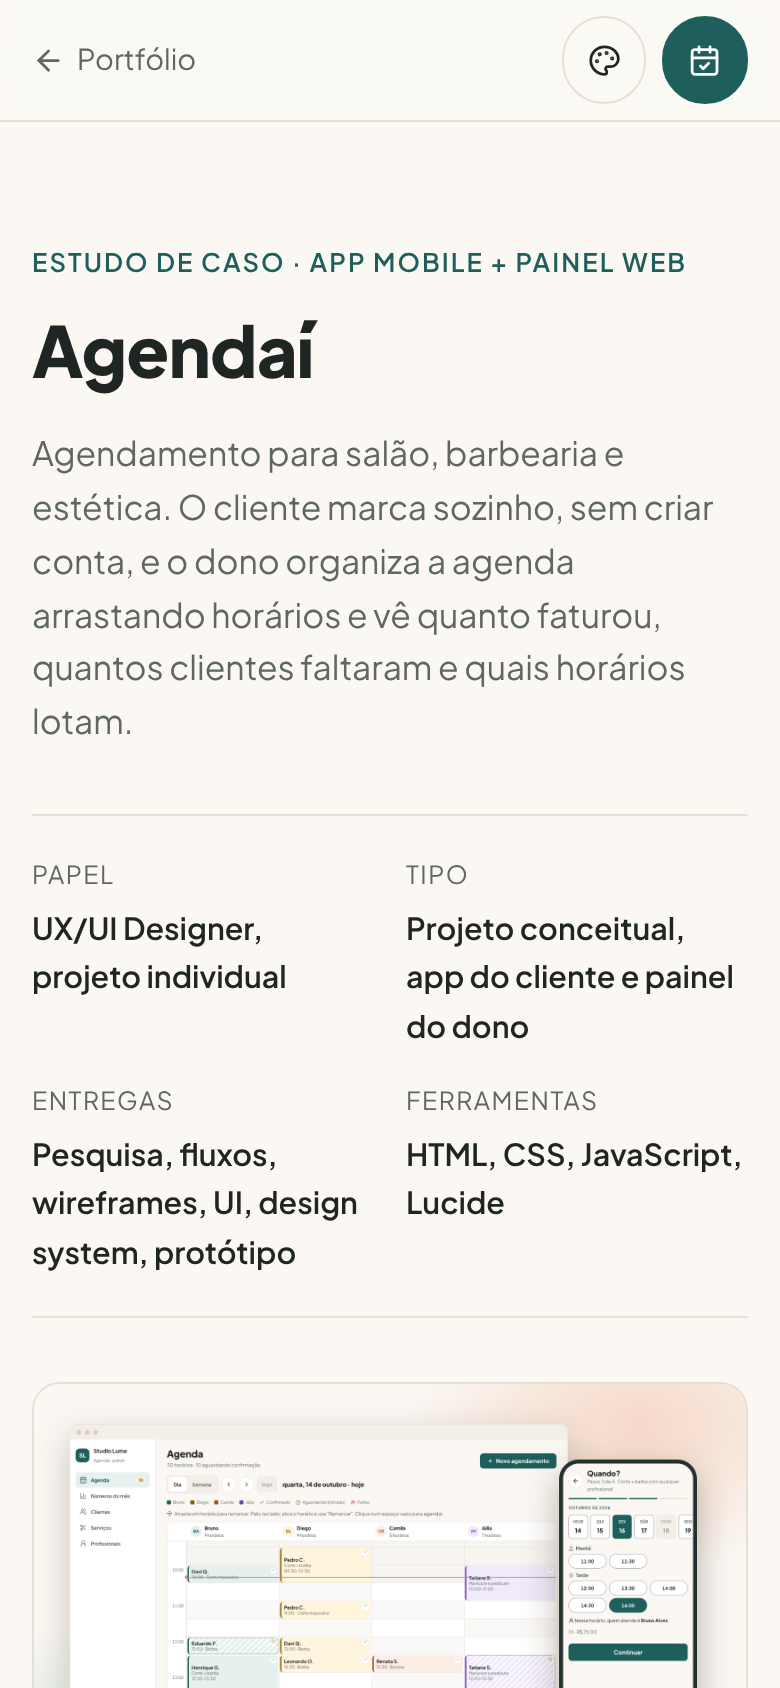
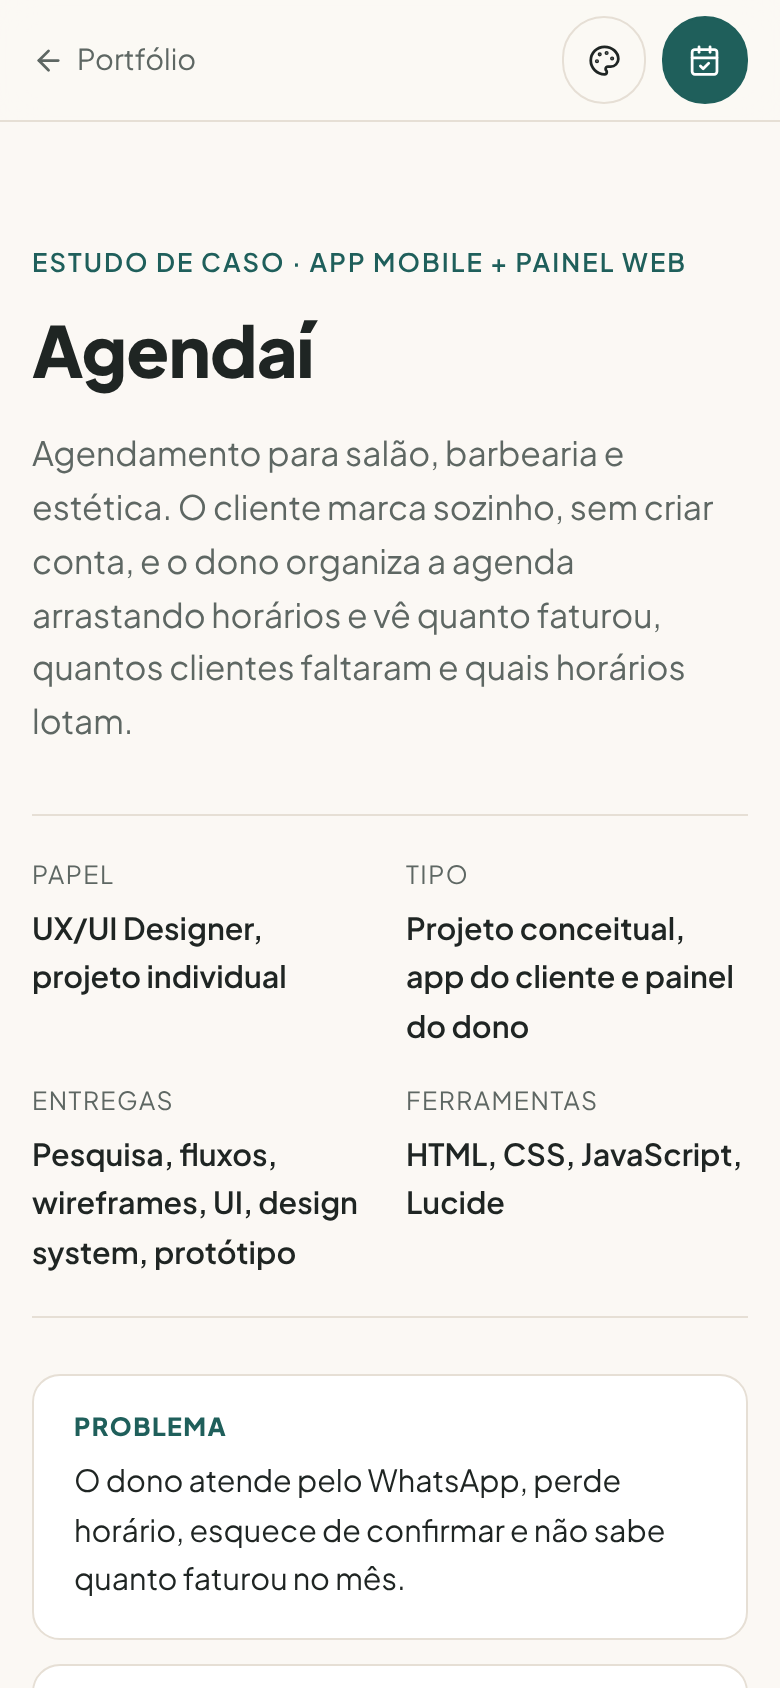
Adiciono resumo, métricas de sucesso e aprendizados aos dois cases

Changed region(s): [[0.0615, 0.8009, 0.9538, 1.0]]

diff --git a/roxx-energy/index.html b/roxx-energy/index.html
@@ -88,6 +88,11 @@
             <div><dt>Entregas</dt><dd>Pesquisa, fluxos, wireframes, UI, design system, protótipo</dd></div>
             <div><dt>Ferramentas</dt><dd>HTML, CSS, JavaScript, Lucide</dd></div>
           </dl>
+          <section class="case-summary" aria-label="Resumo do case">
+            <div><h2>Problema</h2><p>O motorista sai de casa sem saber se o carregador vai estar livre, funcionando e compatível com o carro.</p></div>
+            <div><h2>Solução</h2><p>Mapa já filtrado pelo carro, status com a hora da atualização e relatos de outros motoristas, reserva com 15 minutos de tolerância (AC e DC), recarga acompanhada ao vivo e pagamento com Pix ou cartão.</p></div>
+            <div><h2>Resultado</h2><p>Protótipo navegável com 11 telas e os estados de erro, design system com 8 componentes, benchmark de 5 produtos e avaliação heurística com 8 problemas encontrados e 6 corrigidos.</p></div>
+          </section>
           <figure class="case-cover">
             <img
               src="../assets/img/capa-roxx-energy.png"
@@ -113,7 +118,7 @@
               <li><a href="#acessibilidade">Acessibilidade</a></li>
               <li><a href="#heuristica">Avaliação heurística</a></li>
               <li><a href="#teste">Roteiro de teste</a></li>
-              <li><a href="#proximos">Próximos passos</a></li>
+              <li><a href="#proximos">Próximos passos e métricas</a></li>
             </ol>
           </details>
         </nav>
@@ -315,6 +320,7 @@
               <article class="card"><h4>Pin com potência</h4><p>Mostra os kW, que é o que o motorista compara primeiro. A cor diz o status e o rótulo acessível diz tudo por extenso.</p></article>
               <article class="card"><h4>Status nunca só por cor</h4><p>Badge com cor, bolinha e texto, mais "atualizado há X min".</p></article>
               <article class="card"><h4>Ação no rodapé</h4><p>Em estação, reserva e pagamento, o botão principal fica fixo ao alcance do polegar.</p></article>
+              <article class="card"><h4>Relatos de motoristas</h4><p>"Reportar problema" abre um formulário curto (conector e o que aconteceu). O relato aparece na estação para os próximos motoristas e vai para o operador.</p></article>
               <article class="card"><h4>Modal só com dinheiro envolvido</h4><p>Encerrar recarga e cancelar reserva. O foco começa no botão seguro.</p></article>
             </div>
             <p>Todos os tokens e componentes, com todos os estados, estão no <a href="design-system/index.html">design system</a>.</p>
@@ -329,11 +335,13 @@
               <figure><img src="docs/prints/mobile-10-historico.png" width="390" height="844" loading="lazy" alt="Histórico com o gasto de outubro e gráfico de seis meses." /><figcaption>Histórico</figcaption></figure>
             </div>
             <details class="more-prints">
-              <summary>Ver as outras telas (onboarding, cadastro, reserva confirmada, recibo)</summary>
+              <summary>Ver as outras telas (onboarding, cadastro, relatos, reserva confirmada, recibo)</summary>
               <div class="gallery">
                 <figure><img src="docs/prints/mobile-01-onboarding.png" width="390" height="844" loading="lazy" alt="Primeiro passo do onboarding: saiba antes de sair de casa." /><figcaption>Onboarding</figcaption></figure>
                 <figure><img src="docs/prints/mobile-02-cadastro.png" width="390" height="844" loading="lazy" alt="Cadastro do carro com modelo, conectores e apelido." /><figcaption>Cadastro do carro</figcaption></figure>
                 <figure><img src="docs/prints/mobile-02b-cadastro-erro.png" width="390" height="844" loading="lazy" alt="Cadastro do carro mostrando o erro de modelo não escolhido." /><figcaption>Cadastro com erro</figcaption></figure>
+                <figure><img src="docs/prints/mobile-04c-relatos.png" width="390" height="844" loading="lazy" alt="Estação do Noroeste com aviso de que 3 motoristas reportaram o conector A1 sem energia." /><figcaption>Relatos na estação</figcaption></figure>
+                <figure><img src="docs/prints/mobile-04b-reportar.png" width="390" height="844" loading="lazy" alt="Formulário para reportar problema no carregador, com conector e motivo." /><figcaption>Reportar problema</figcaption></figure>
                 <figure><img src="docs/prints/mobile-06-reserva-confirmada.png" width="390" height="844" loading="lazy" alt="Reserva confirmada com horário de chegada e prazo de tolerância." /><figcaption>Reserva confirmada</figcaption></figure>
                 <figure><img src="docs/prints/mobile-07b-encerrar.png" width="390" height="844" loading="lazy" alt="Modal perguntando se quer encerrar a recarga agora." /><figcaption>Confirmação ao encerrar</figcaption></figure>
                 <figure><img src="docs/prints/mobile-09-recibo.png" width="390" height="844" loading="lazy" alt="Recibo do pagamento aprovado." /><figcaption>Recibo</figcaption></figure>
@@ -435,7 +443,7 @@
           <!-- 10 -->
           <section class="case-section" id="proximos" aria-labelledby="h-proximos">
             <span class="section-num">10</span>
-            <h2 id="h-proximos">Próximos passos</h2>
+            <h2 id="h-proximos">Próximos passos, métricas e aprendizados</h2>
             <ol>
               <li>Rodar o teste com 5 motoristas e revisar a proto-persona com o que aparecer.</li>
               <li>Favoritos e "carregar de novo" para quem usa sempre a mesma estação.</li>
@@ -444,6 +452,26 @@
               <li>Fila de espera quando todos os conectores estiverem ocupados.</li>
               <li>Testar a reserva com e sem taxa e ver o efeito nas reservas abandonadas.</li>
             </ol>
+            <h3>Como eu mediria o sucesso</h3>
+            <p>Se o Roxx fosse lançado, estes seriam os números que eu acompanharia. Nenhum deles existe ainda; são as metas que eu definiria.</p>
+            <div class="table-wrap" tabindex="0" role="region" aria-label="Métricas de sucesso">
+              <table>
+                <thead><tr><th scope="col">Métrica</th><th scope="col">Por que importa</th><th scope="col">Meta inicial</th></tr></thead>
+                <tbody>
+                  <tr><td>Tempo de abrir o app até confirmar a reserva</td><td>É o objetivo do produto</td><td>Menos de 1 minuto</td></tr>
+                  <tr><td>Chegadas em que o conector reservado estava funcionando</td><td>Mede se o status é confiável, que é a dor principal</td><td>Acima de 95%</td></tr>
+                  <tr><td>Reservas que viram recarga</td><td>Mostra se a tolerância de 15 minutos e a taxa fazem sentido</td><td>Acima de 85%</td></tr>
+                  <tr><td>Relatos de problema confirmados pelo operador</td><td>Separa relato útil de ruído e calibra o peso do relato no status</td><td>Acompanhar, sem meta no início</td></tr>
+                  <tr><td>Motoristas que voltam a carregar pelo app no mês seguinte</td><td>Indica se o app virou o lugar padrão para carregar</td><td>Acima de 60%</td></tr>
+                </tbody>
+              </table>
+            </div>
+            <h3>O que eu aprendi</h3>
+            <ul>
+              <li><strong>Testar o protótipo pega o que a tela parada esconde.</strong> Os dois problemas mais graves da avaliação heurística só apareceram usando o fluxo de verdade, e um deles era um bug de CSS que deixava as mensagens de erro sempre visíveis.</li>
+              <li><strong>O maior risco não é a interface, é o dado.</strong> Um status errado derruba a confiança no app inteiro. Por isso a hora da atualização em todo status e os relatos de motoristas na tela da estação.</li>
+              <li><strong>Restringir a cor de destaque deu clareza.</strong> Decidir que o verde só aparece em três lugares (ação principal, livre e progresso) resolveu a hierarquia de quase todas as telas.</li>
+            </ul>
             <div class="next-links">
               <a class="btn-case btn-case--primary" href="prototipo/index.html"><i data-lucide="smartphone" aria-hidden="true"></i>Abrir protótipo</a>
               <a class="btn-case" href="design-system/index.html"><i data-lucide="palette" aria-hidden="true"></i>Design system</a>

diff --git a/agendai/index.html b/agendai/index.html
@@ -89,6 +89,11 @@
             <div><dt>Entregas</dt><dd>Pesquisa, fluxos, wireframes, UI, design system, protótipo</dd></div>
             <div><dt>Ferramentas</dt><dd>HTML, CSS, JavaScript, Lucide</dd></div>
           </dl>
+          <section class="case-summary" aria-label="Resumo do case">
+            <div><h2>Problema</h2><p>O dono atende pelo WhatsApp, perde horário, esquece de confirmar e não sabe quanto faturou no mês.</p></div>
+            <div><h2>Solução</h2><p>Link de agendamento sem cadastro para o cliente e um painel em que o dono arrasta horários para remarcar e vê faturamento, faltas e horários mais cheios.</p></div>
+            <div><h2>Resultado</h2><p>Duas interfaces navegáveis com 14 telas, design system com 8 componentes, benchmark de 5 produtos e avaliação heurística com 7 problemas encontrados e 6 corrigidos.</p></div>
+          </section>
           <figure class="case-cover">
             <img
               src="../assets/img/capa-agendai.png"
@@ -114,7 +119,7 @@
               <li><a href="#acessibilidade">Acessibilidade</a></li>
               <li><a href="#heuristica">Avaliação heurística</a></li>
               <li><a href="#teste">Roteiro de teste</a></li>
-              <li><a href="#proximos">Próximos passos</a></li>
+              <li><a href="#proximos">Próximos passos e métricas</a></li>
             </ol>
           </details>
         </nav>
@@ -436,7 +441,7 @@
 
           <section class="case-section" id="proximos" aria-labelledby="h-proximos">
             <span class="section-num">10</span>
-            <h2 id="h-proximos">Próximos passos</h2>
+            <h2 id="h-proximos">Próximos passos, métricas e aprendizados</h2>
             <ol>
               <li>Rodar o teste com donos e clientes e revisar as proto-personas.</li>
               <li>"Ir para uma data" no painel.</li>
@@ -446,6 +451,26 @@
               <li>Bloqueio de agenda (folga, almoço) direto na grade.</li>
               <li>Integração real com o WhatsApp e medir se a taxa de faltas cai.</li>
             </ol>
+            <h3>Como eu mediria o sucesso</h3>
+            <p>Se o Agendaí fosse lançado, estes seriam os números que eu acompanharia. Nenhum deles existe ainda; são as metas que eu definiria.</p>
+            <div class="table-wrap" tabindex="0" role="region" aria-label="Métricas de sucesso">
+              <table>
+                <thead><tr><th scope="col">Métrica</th><th scope="col">Por que importa</th><th scope="col">Meta inicial</th></tr></thead>
+                <tbody>
+                  <tr><td>Agendamentos que chegam pelo link, e não pelo WhatsApp</td><td>Mostra se o cliente aceitou marcar sozinho</td><td>Metade em 3 meses</td></tr>
+                  <tr><td>Taxa de faltas antes e depois do lembrete</td><td>É a dor que mais custa dinheiro ao dono; o painel já mede</td><td>Cair pela metade</td></tr>
+                  <tr><td>Tempo para remarcar um horário</td><td>Valida o arrastar contra o formulário</td><td>Menos de 10 segundos</td></tr>
+                  <tr><td>Mensagens de agendamento por dia no WhatsApp do salão</td><td>Se o produto funciona, o dono conversa menos</td><td>Cair pela metade</td></tr>
+                  <tr><td>Donos que abrem "Números do mês" ao menos uma vez por semana</td><td>Diz se a visão do negócio é útil de verdade</td><td>Acima de 50%</td></tr>
+                </tbody>
+              </table>
+            </div>
+            <h3>O que eu aprendi</h3>
+            <ul>
+              <li><strong>Duas interfaces exigem um design system de verdade.</strong> O app do cliente e o painel leem os mesmos tokens e componentes; sem isso, os dois lados teriam virado produtos diferentes.</li>
+              <li><strong>Dado de exemplo também precisa ser coerente.</strong> Gerei a agenda do mês com uma regra fixa, para o painel, o app, o design system e este case mostrarem os mesmos números.</li>
+              <li><strong>Gesto rápido não pode ser o único caminho.</strong> Arrastar para remarcar é o mais rápido no mouse, mas o mesmo resultado precisa existir pelo teclado e no celular.</li>
+            </ul>
             <div class="next-links">
               <a class="btn-case btn-case--primary" href="prototipo/index.html"><i data-lucide="calendar-check" aria-hidden="true"></i>Abrir protótipo</a>
               <a class="btn-case" href="design-system/index.html"><i data-lucide="palette" aria-hidden="true"></i>Design system</a>

diff --git a/assets/css/case.css b/assets/css/case.css
@@ -749,3 +749,36 @@ code {
   color: var(--c-link);
   font-weight: 600;
 }
+
+/* Resumo do case no topo */
+.case-summary {
+  display: grid;
+  gap: 12px;
+  margin-top: 28px;
+}
+
+@media (min-width: 860px) {
+  .case-summary {
+    grid-template-columns: repeat(3, minmax(0, 1fr));
+  }
+}
+
+.case-summary > div {
+  padding: 18px 20px;
+  border-radius: var(--c-radius);
+  background: var(--c-surface);
+  border: 1px solid var(--c-line);
+}
+
+.case-summary h2 {
+  font-size: 0.78rem;
+  text-transform: uppercase;
+  letter-spacing: 0.06em;
+  color: var(--c-accent-text);
+  margin-bottom: 8px;
+  font-family: var(--font-body);
+}
+
+.case-summary p {
+  font-size: 0.95rem;
+}

diff --git a/roxx-energy/README.md b/roxx-energy/README.md
@@ -8,6 +8,12 @@ App mobile para quem tem carro elétrico achar um carregador **livre, funcionand
 
 ![Telas do Roxx Energy](../assets/img/capa-roxx-energy.png)
 
+## Resumo
+
+- **Problema:** o motorista sai de casa sem saber se o carregador vai estar livre, funcionando e compatível.
+- **Solução:** mapa já filtrado pelo carro, status com a hora da atualização e relatos de outros motoristas, reserva com 15 minutos de tolerância (AC e DC), recarga acompanhada ao vivo e pagamento com Pix ou cartão.
+- **Resultado:** protótipo navegável com 11 telas e os estados de erro, design system com 8 componentes, benchmark de 5 produtos e avaliação heurística com 8 problemas encontrados e 6 corrigidos.
+
 ## Problema
 
 Quem tem carro elétrico no Brasil sai de casa sem saber se o carregador vai estar **livre**, **funcionando** e **compatível** com o carro. Na prática usa mais de um app, liga para o estabelecimento ou só descobre quando chega.
@@ -23,7 +29,7 @@ Quem tem carro elétrico no Brasil sai de casa sem saber se o carregador vai est
 5. **Decisões de UI e acessibilidade**, com contraste WCAG AA calculado → [docs/04](docs/04-decisoes-de-ui-e-acessibilidade.md)
 6. **Avaliação heurística** do meu protótipo: 8 achados, 6 corrigidos → [docs/05](docs/05-avaliacao-heuristica.md)
 7. **Roteiro de teste de usabilidade** (próximo passo) → [docs/06](docs/06-roteiro-de-teste.md)
-8. **Próximos passos** → [docs/07](docs/07-proximos-passos.md)
+8. **Próximos passos, métricas de sucesso e aprendizados** → [docs/07](docs/07-proximos-passos.md)
 
 ### O que levei do benchmark
 
@@ -60,6 +66,10 @@ flowchart LR
 | Reserva | Reserva confirmada | Recarga em andamento | Encerrar |
 |---|---|---|---|
 | <img src="docs/prints/mobile-05-reserva.png" alt="Reserva" width="190"> | <img src="docs/prints/mobile-06-reserva-confirmada.png" alt="Reserva confirmada" width="190"> | <img src="docs/prints/mobile-07-recarga.png" alt="Recarga em andamento" width="190"> | <img src="docs/prints/mobile-07b-encerrar.png" alt="Confirmação para encerrar" width="190"> |
+
+| Relatos na estação | Reportar problema | | |
+|---|---|---|---|
+| <img src="docs/prints/mobile-04c-relatos.png" alt="Relatos de motoristas na estação" width="190"> | <img src="docs/prints/mobile-04b-reportar.png" alt="Formulário de reportar problema" width="190"> | | |
 
 | Pagamento Pix | Recibo | Histórico | Erro no cadastro |
 |---|---|---|---|

diff --git a/roxx-energy/docs/07-proximos-passos.md b/roxx-energy/docs/07-proximos-passos.md
@@ -9,3 +9,21 @@
 5. **Fila de espera** quando todos os conectores estiverem ocupados, com aviso quando um liberar.
 6. **Status reportado pela comunidade** com peso menor que o status da rede, para cobrir estações não integradas.
 7. **Validar a taxa de reserva**: testar com e sem taxa e ver o efeito no número de reservas abandonadas.
+
+## Como eu mediria o sucesso
+
+Se o Roxx fosse lançado, estes seriam os números que eu acompanharia. Nenhum deles existe ainda; são as metas que eu definiria.
+
+| Métrica | Por que importa | Meta inicial |
+|---|---|---|
+| Tempo de abrir o app até confirmar a reserva | É o objetivo do produto | Menos de 1 minuto |
+| Chegadas em que o conector reservado estava funcionando | Mede se o status é confiável, que é a dor principal | Acima de 95% |
+| Reservas que viram recarga | Mostra se a tolerância de 15 minutos e a taxa fazem sentido | Acima de 85% |
+| Relatos de problema confirmados pelo operador | Separa relato útil de ruído e calibra o peso do relato no status | Acompanhar, sem meta no início |
+| Motoristas que voltam a carregar pelo app no mês seguinte | Indica se o app virou o lugar padrão para carregar | Acima de 60% |
+
+## O que eu aprendi
+
+- **Testar o protótipo pega o que a tela parada esconde.** Os dois problemas mais graves da avaliação heurística só apareceram usando o fluxo de verdade, e um deles era um bug de CSS que deixava as mensagens de erro sempre visíveis.
+- **O maior risco não é a interface, é o dado.** Um status errado derruba a confiança no app inteiro. Por isso a hora da atualização em todo status e os relatos de motoristas na tela da estação.
+- **Restringir a cor de destaque deu clareza.** Decidir que o verde só aparece em três lugares (ação principal, livre e progresso) resolveu a hierarquia de quase todas as telas.

diff --git a/agendai/docs/07-proximos-passos.md b/agendai/docs/07-proximos-passos.md
@@ -9,3 +9,21 @@
 5. **Comissões por profissional** a partir do faturamento que o painel já calcula.
 6. **Bloqueio de agenda** (folga, almoço, curso) direto na grade.
 7. **Integração real com WhatsApp** para confirmação e lembrete, e medir se a taxa de faltas cai depois disso.
+
+## Como eu mediria o sucesso
+
+Se o Agendaí fosse lançado, estes seriam os números que eu acompanharia. Nenhum deles existe ainda; são as metas que eu definiria.
+
+| Métrica | Por que importa | Meta inicial |
+|---|---|---|
+| Agendamentos que chegam pelo link, e não pelo WhatsApp | Mostra se o cliente aceitou marcar sozinho | Metade em 3 meses |
+| Taxa de faltas antes e depois do lembrete | É a dor que mais custa dinheiro ao dono; o painel já mede | Cair pela metade |
+| Tempo para remarcar um horário | Valida o arrastar contra o formulário | Menos de 10 segundos |
+| Mensagens de agendamento por dia no WhatsApp do salão | Se o produto funciona, o dono conversa menos | Cair pela metade |
+| Donos que abrem "Números do mês" ao menos uma vez por semana | Diz se a visão do negócio é útil de verdade | Acima de 50% |
+
+## O que eu aprendi
+
+- **Duas interfaces exigem um design system de verdade.** O app do cliente e o painel leem os mesmos tokens e componentes; sem isso, os dois lados teriam virado produtos diferentes.
+- **Dado de exemplo também precisa ser coerente.** Gerei a agenda do mês com uma regra fixa, para o painel, o app, o design system e o case mostrarem os mesmos números.
+- **Gesto rápido não pode ser o único caminho.** Arrastar para remarcar é o mais rápido no mouse, mas o mesmo resultado precisa existir pelo teclado e no celular.

diff --git a/agendai/README.md b/agendai/README.md
@@ -8,6 +8,12 @@ Agendamento para salão, barbearia e estética. O **cliente** marca sozinho, sem
 
 ![Telas do Agendaí](../assets/img/capa-agendai.png)
 
+## Resumo
+
+- **Problema:** o dono atende pelo WhatsApp, perde horário, esquece de confirmar e não sabe quanto faturou no mês.
+- **Solução:** link de agendamento sem cadastro para o cliente e um painel em que o dono arrasta horários para remarcar e vê faturamento, faltas e horários mais cheios.
+- **Resultado:** duas interfaces navegáveis com 14 telas, design system com 8 componentes, benchmark de 5 produtos e avaliação heurística com 7 problemas encontrados e 6 corrigidos.
+
 ## Problema
 
 O dono de um salão pequeno atende pelo WhatsApp: perde horário quando demora a responder, esquece de confirmar e o cliente falta, e não tem visão do faturamento.
@@ -23,7 +29,7 @@ O dono de um salão pequeno atende pelo WhatsApp: perde horário quando demora a
 5. **Decisões de UI e acessibilidade**, com contraste WCAG AA calculado → [docs/04](docs/04-decisoes-de-ui-e-acessibilidade.md)
 6. **Avaliação heurística** do meu protótipo: 7 achados, 6 corrigidos → [docs/05](docs/05-avaliacao-heuristica.md)
 7. **Roteiro de teste de usabilidade** (próximo passo) → [docs/06](docs/06-roteiro-de-teste.md)
-8. **Próximos passos** → [docs/07](docs/07-proximos-passos.md)
+8. **Próximos passos, métricas de sucesso e aprendizados** → [docs/07](docs/07-proximos-passos.md)
 
 ### O que levei do benchmark
 

diff --git a/roxx-energy/docs/04-decisoes-de-ui-e-acessibilidade.md b/roxx-energy/docs/04-decisoes-de-ui-e-acessibilidade.md
@@ -25,6 +25,7 @@ Todos os valores estão no [design system](https://gabrielabreu-it.github.io/pro
 | Badge de status | Cor, bolinha e texto. Nunca só cor |
 | Card de estação | Inteiro clicável, com distância, disponibilidade compatível e preço |
 | Botões fixos no rodapé | Nas telas de decisão (estação, reserva, pagamento) a ação principal fica sempre ao alcance do polegar |
+| Relatos de motoristas | "Reportar problema" abre um formulário curto (conector e motivo). O relato aparece na estação para os próximos motoristas e vai para o operador |
 | Modal | Só para ações com dinheiro envolvido: encerrar recarga e cancelar reserva. Foco começa no botão seguro |
 | Toast | Confirma o que aconteceu. No cancelamento da reserva tem "Desfazer" |
 | Anel de progresso | Lido de relance, com o valor também em texto e `role="meter"` |

diff --git a/agendai/docs/README.md b/agendai/docs/README.md
@@ -8,7 +8,7 @@ Material de trabalho do case. A versão para leitura rápida está no [estudo de
 4. [Decisões de UI e acessibilidade](04-decisoes-de-ui-e-acessibilidade.md)
 5. [Avaliação heurística](05-avaliacao-heuristica.md)
 6. [Roteiro de teste de usabilidade](06-roteiro-de-teste.md)
-7. [Próximos passos](07-proximos-passos.md)
+7. [Próximos passos, métricas e aprendizados](07-proximos-passos.md)
 
 Também aqui:
 

diff --git a/roxx-energy/docs/README.md b/roxx-energy/docs/README.md
@@ -8,7 +8,7 @@ Material de trabalho do case. A versão para leitura rápida está no [estudo de
 4. [Decisões de UI e acessibilidade](04-decisoes-de-ui-e-acessibilidade.md)
 5. [Avaliação heurística](05-avaliacao-heuristica.md)
 6. [Roteiro de teste de usabilidade](06-roteiro-de-teste.md)
-7. [Próximos passos](07-proximos-passos.md)
+7. [Próximos passos, métricas e aprendizados](07-proximos-passos.md)
 
 Também aqui:
 
